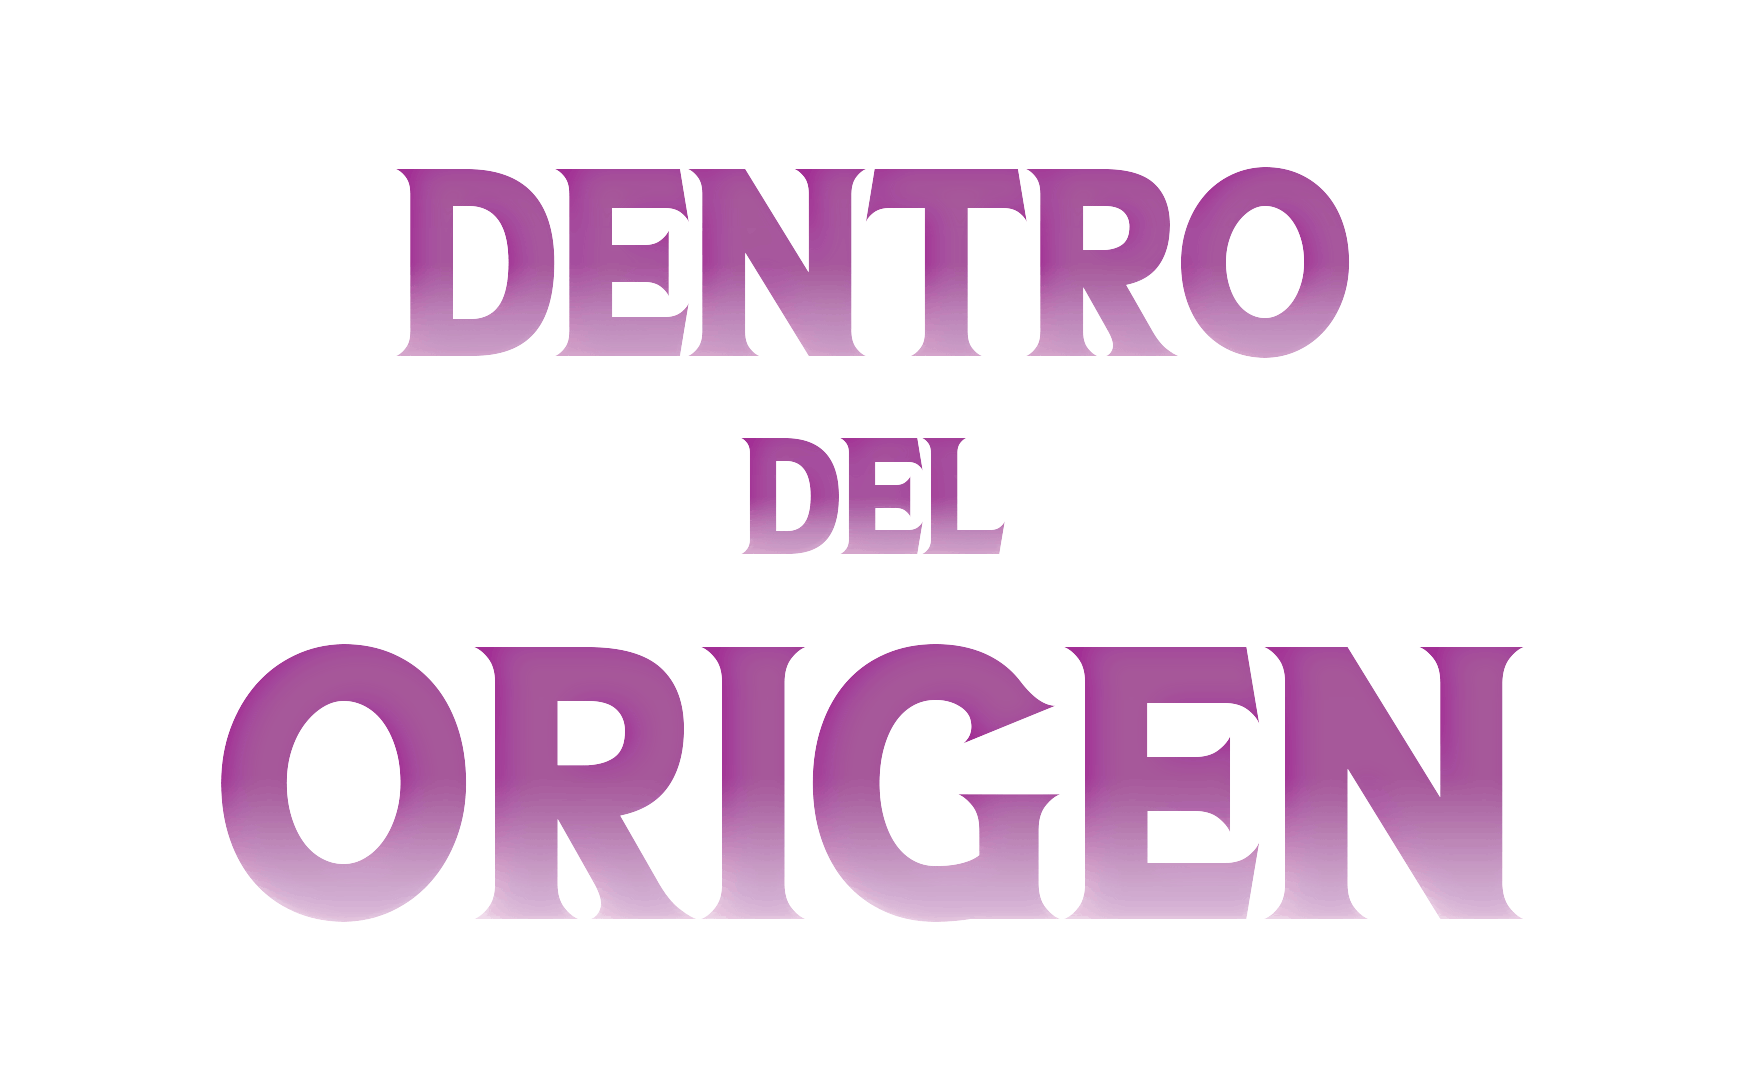
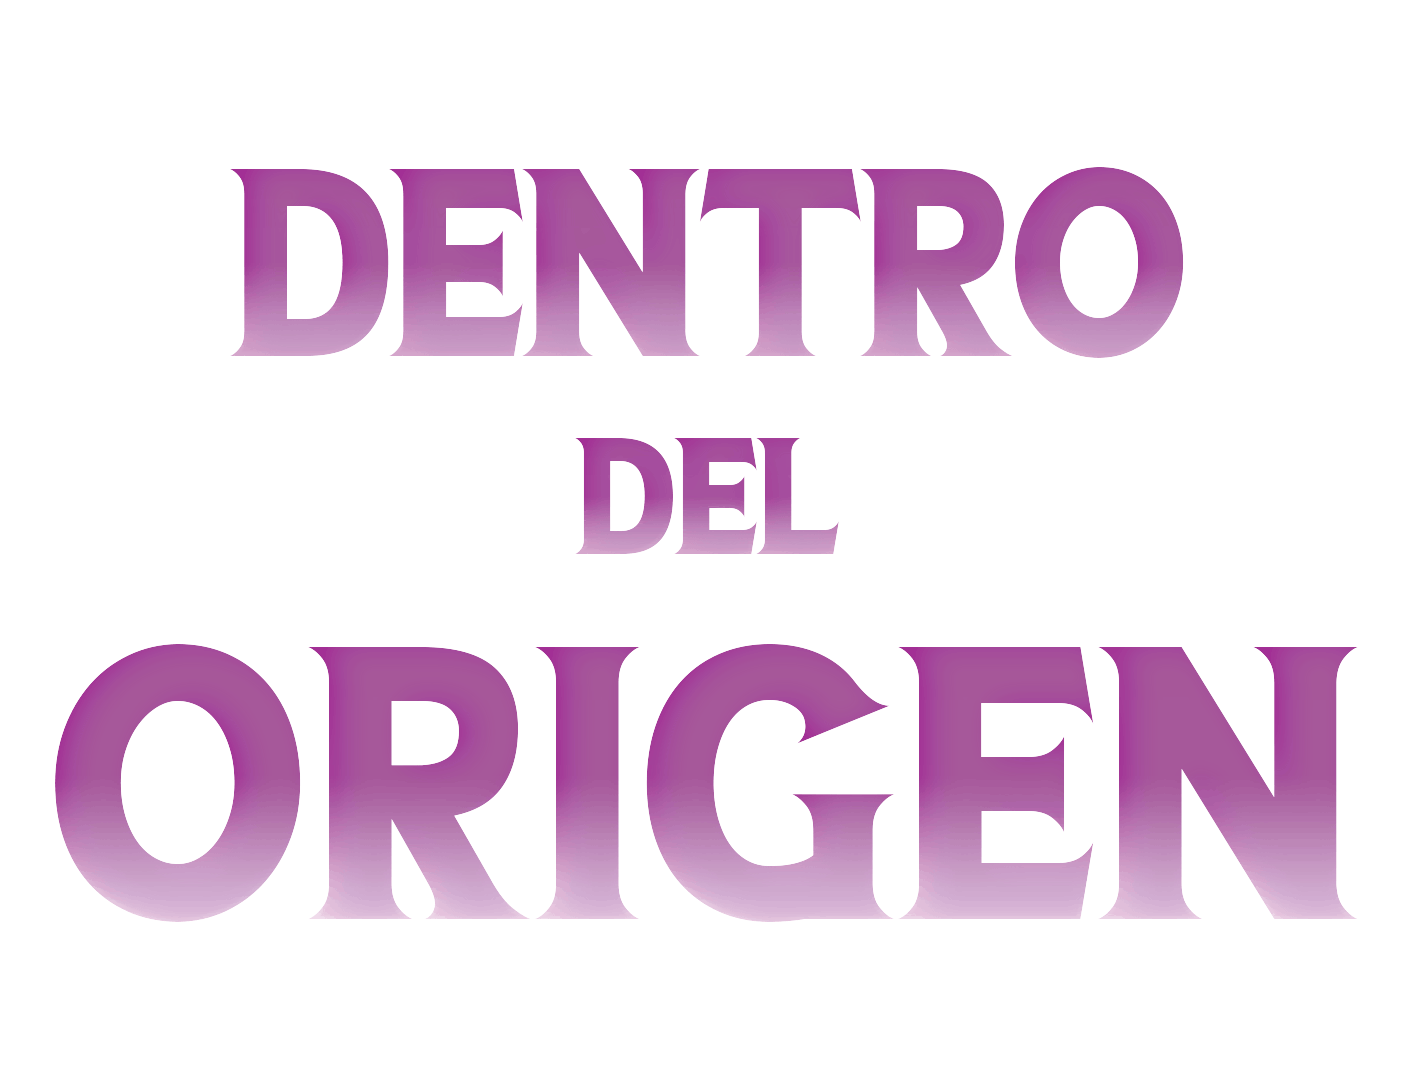
imagen

diff --git a/dentrodelorigen.html b/dentrodelorigen.html
@@ -39,13 +39,13 @@
 
 
  <p align="center" style="position:relative;">
-       <img src="titulo.png" alt="Cover" style="max-width:90vw;"/>
+       <img src="titulo.png" alt="Cover" style="max-width:85vw; max-height:60vh"/>
     </p>
 
 
 
 
-<center style="color:white; font-weight:bold;">
+<center style="color:white; font-weight:bold; padding-left:25px; padding-right:25px;">
 <br>
 Durante el mes de Febrero del 2023, el libro está siendo editado por la editorial <a href="https://tintalibre.com.ar/">Tinta Libre</a>, de la ciudad de Córdoba.
 
